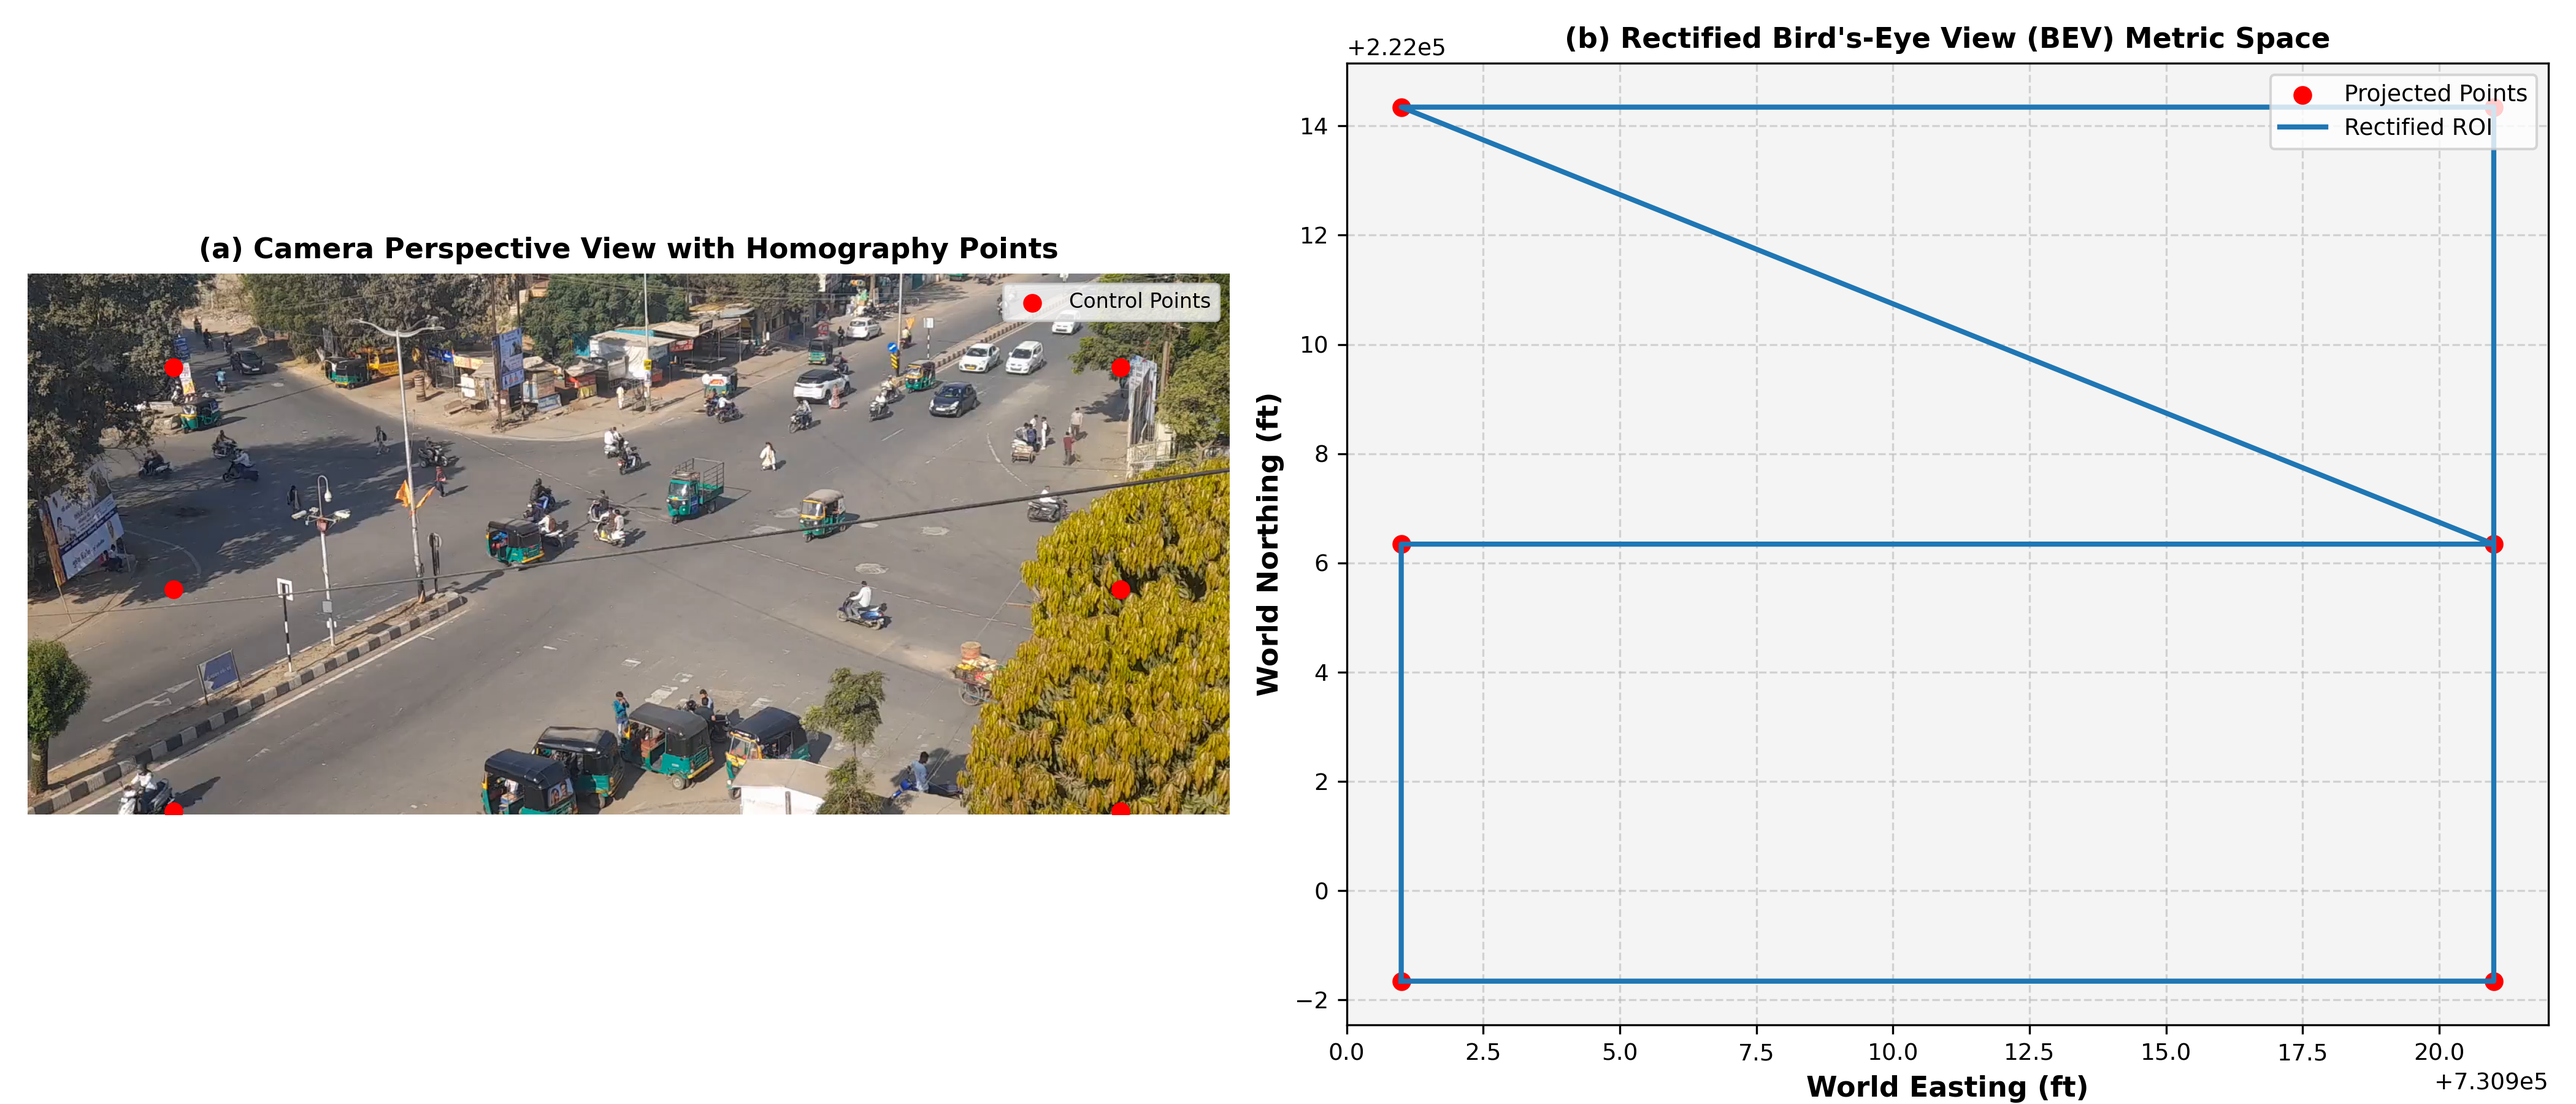
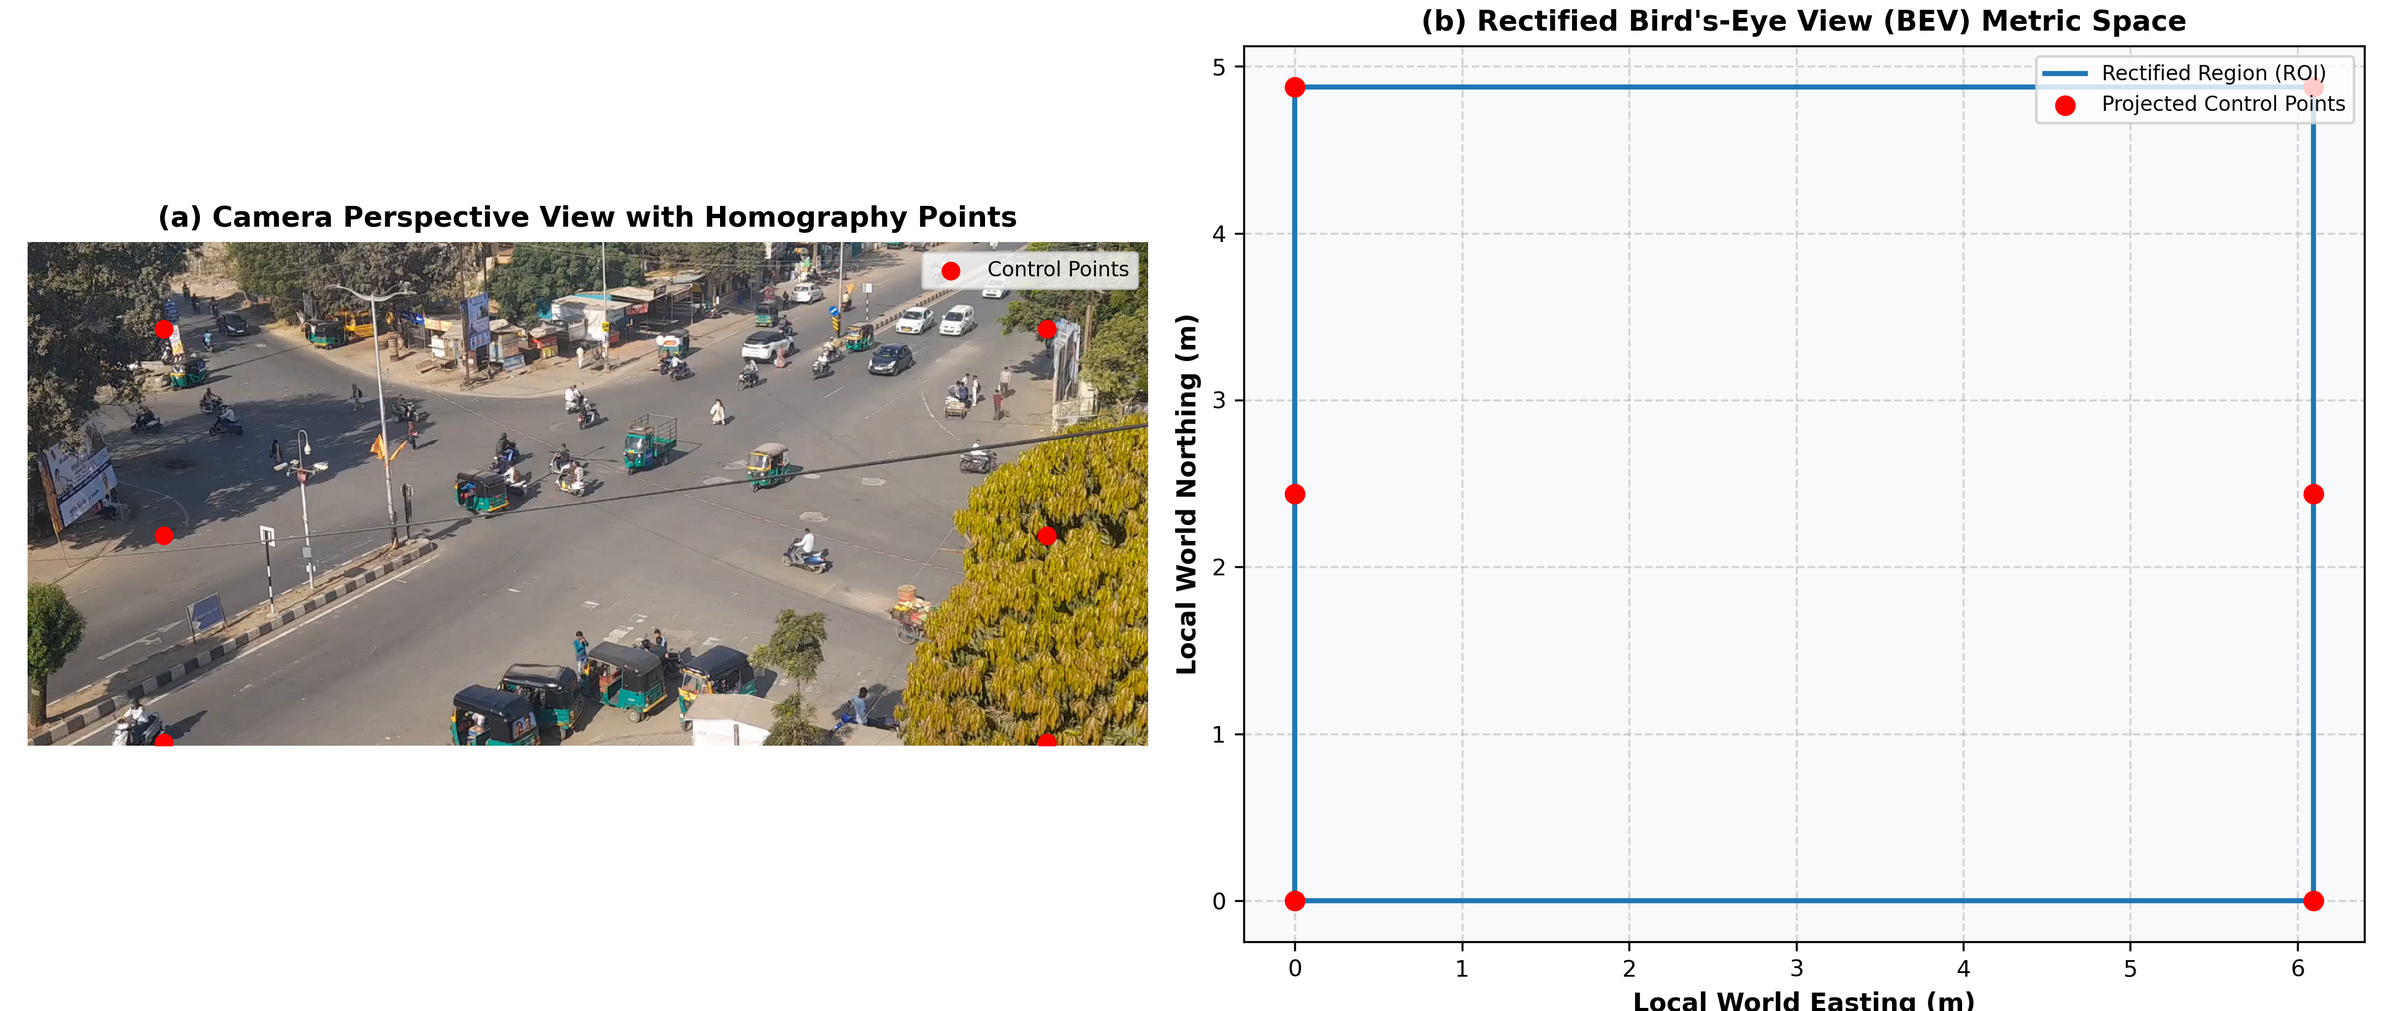
Fix BEV polygon ordering, architecture arrows, and PET KDE boundary

diff --git a/docs/figures/README.md b/docs/figures/README.md
@@ -1,11 +1,11 @@
 # Publication Figures
 
-Refined figures for manuscript.
+Final corrected figures.
 
 | Figure | Description |
 |--------|-------------|
-| `pet_distribution.png` | PET histogram + KDE with median, IQR, and critical threshold |
-| `conflict_type_distribution.png` | Conflict type counts and percentages |
+| `pet_distribution.png` | PET histogram + KDE with median, IQR, threshold |
+| `conflict_type_distribution.png` | Conflict type distribution |
 | `pet_by_conflict_type.png` | PET severity by conflict type |
-| `pipeline_architecture.png` | Pipeline architecture block diagram |
-| `bev_dual_panel.png` | Dual-panel BEV homography validation |
+| `pipeline_architecture.png` | Architecture block diagram with downward arrows |
+| `bev_dual_panel.png` | Camera view vs. rectified BEV metric space (convex hull polygon) |
